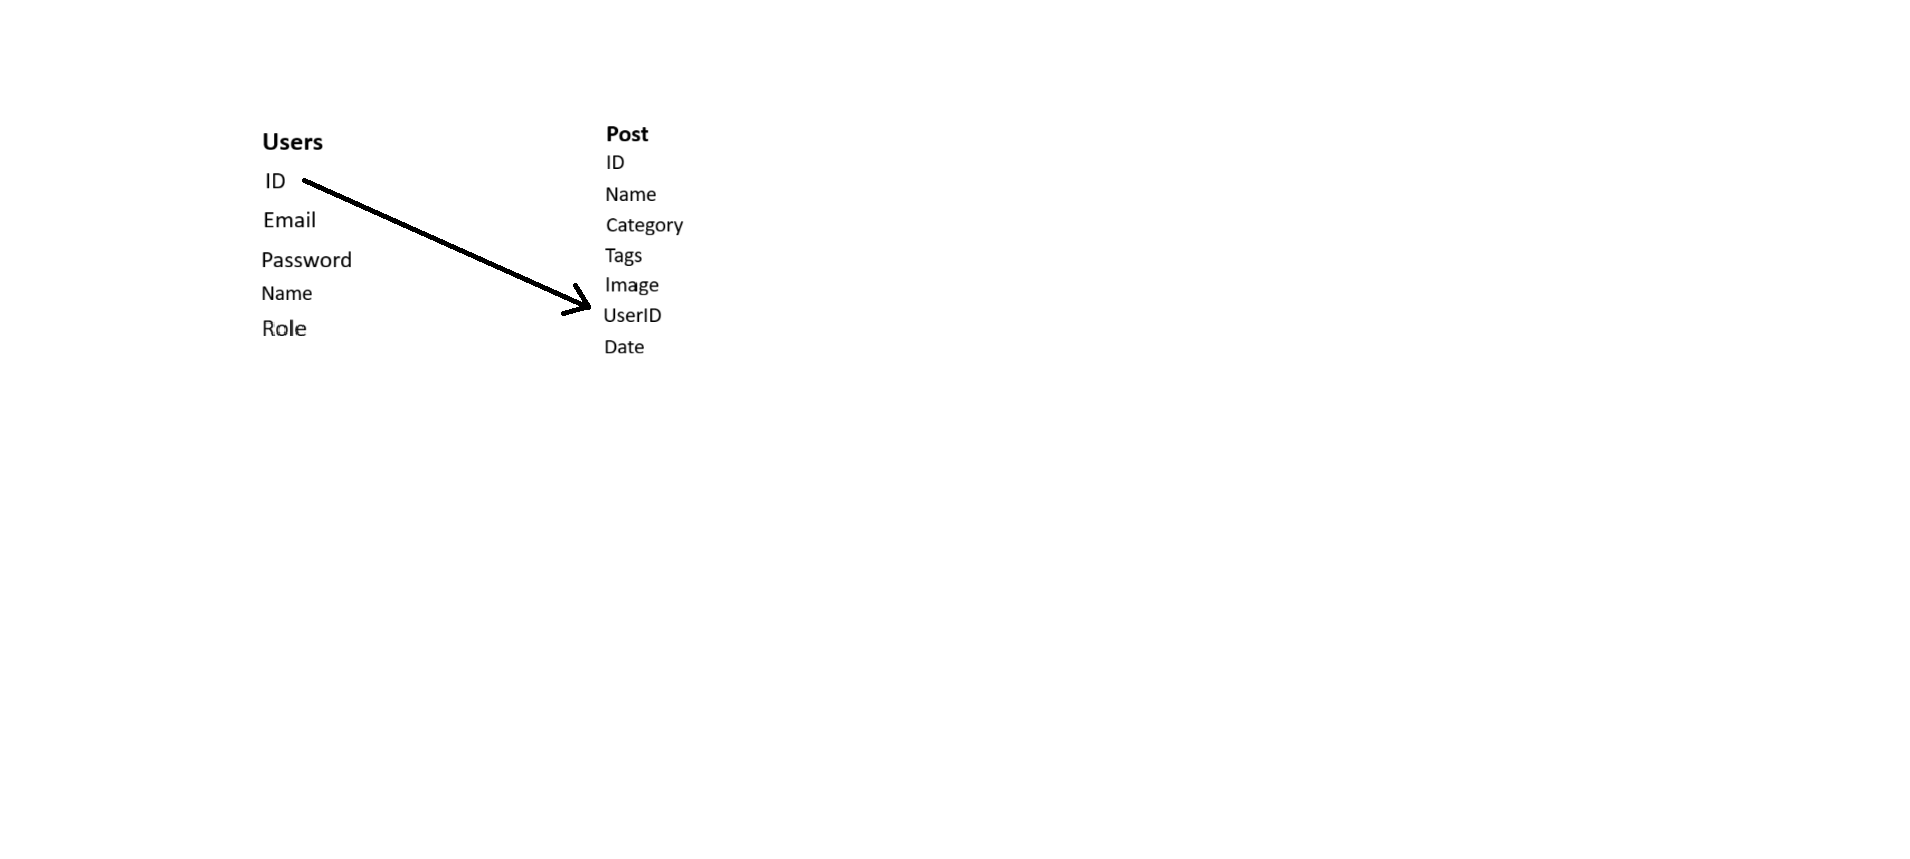
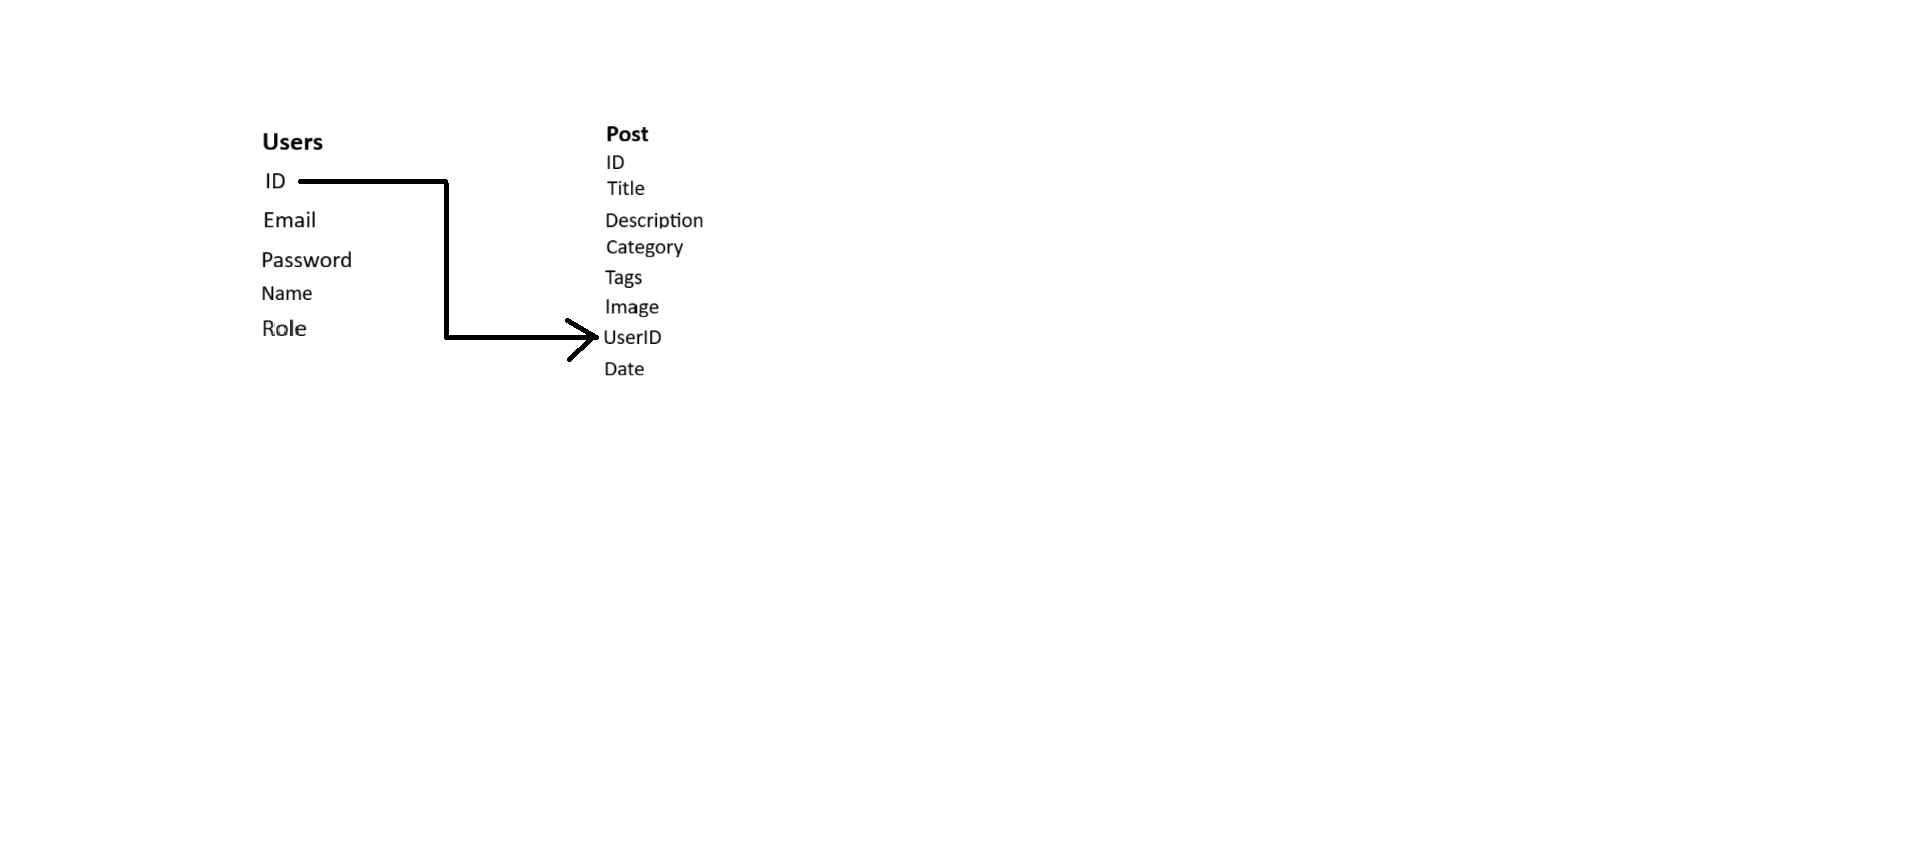
Added Author on posts and changed posts table in database.

Changed region(s): [[0.2162, 0.2119, 0.3707, 0.454], [0.1545, 0.1816, 0.2471, 0.3027], [0.2471, 0.3027, 0.278, 0.3329]]

diff --git a/style.css b/style.css
@@ -109,6 +109,7 @@ select.form-input option {
     background-color: #f5f6fa;
 }
 
+
 .navbar {
     position: fixed;
     top: 0;
@@ -123,6 +124,7 @@ select.form-input option {
     z-index: 1000;
 }
 
+
 .filter-form {
     display: flex;
     align-items: center;
@@ -133,7 +135,7 @@ select.form-input option {
 .btn.small {
     padding: 8px 10px;
     font-size: 14px;
-    width: auto;
+    width: 140px;
 }
 
 .nav-right .btn.logout {
@@ -148,6 +150,18 @@ select.form-input option {
 
 .nav-right .btn.logout:hover {
     background-color: #ff7675;
+}
+
+.post-header {
+    display: flex;
+    justify-content: space-between;
+    align-items: center;
+}
+
+.post-author {
+    font-size: 14px;
+    color: #777;
+    font-style: italic;
 }
 
 .main-content {

diff --git a/home.php b/home.php
@@ -28,14 +28,27 @@
     </nav>
 
     <main class="main-content">
+
         <div class="post">
-            <h2>Sample Post Title</h2>
-            <p>This is a preview of the post content. It shows up under the navbar and is centered nicely.</p>
+            <div class="post-header">
+            <h2 class="post-title">Sample Post Title</h2>
+            <h3 class="post-author">Author: Nikodin</h3>
+            </div>
+            <p class="post-content">
+            This is a preview of the post content. It shows up under the navbar and is centered nicely.
+            </p>
         </div>
+
         <div class="post">
-            <h2>Another Post</h2>
-            <p>Here’s another example post — every post appears below the previous one with clean spacing.</p>
+            <div class="post-header">
+                <h2 class="post-title">Another Post</h2>
+                <h3 class="post-author">Author: Nikodin</h3>
+            </div>
+            <p class="post-content">
+                Here’s another example post — every post appears below the previous one with clean spacing.
+            </p>
         </div>
+
     </main>
 
 </body>
